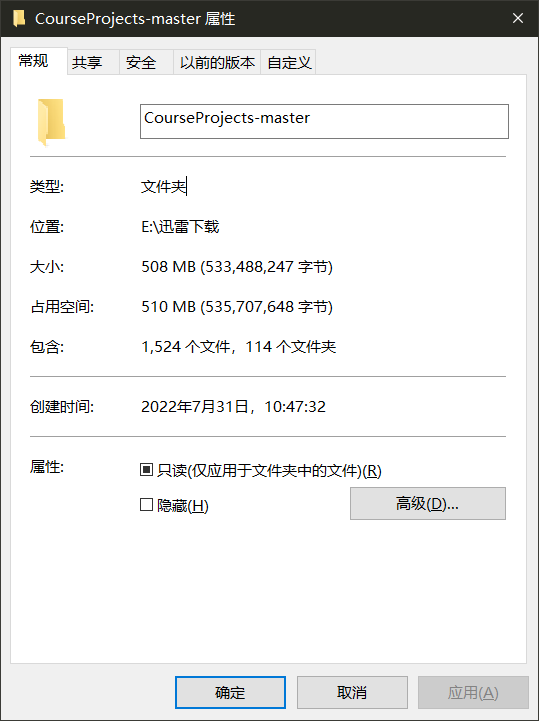
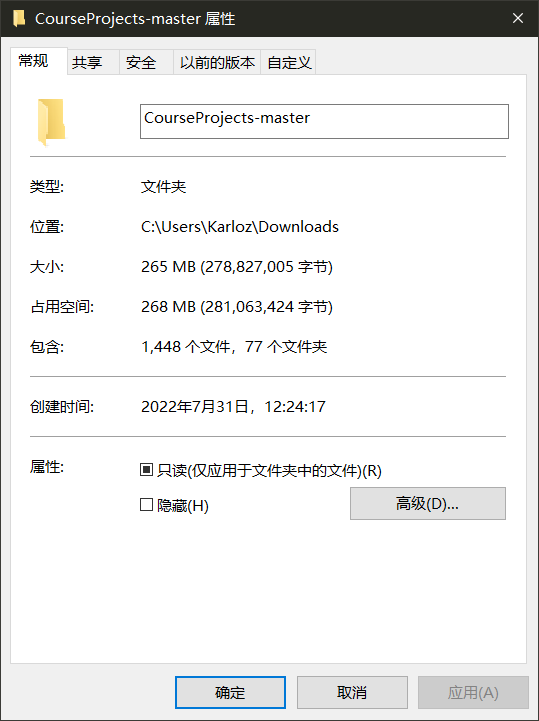
22-07-31 update

diff --git a/README.md b/README.md
@@ -16,11 +16,11 @@
 
 **1. 由于每天都可能会对已经上传的项目进行优化或修改完善，最后一次提交的时间通常比较集中，真实的完成时间可以参考项目目录中最早的提交日期或者本文档下面的更新日志部分。**
 
-**2.完整的仓库压缩包大小约为88.8MB，解压后为508MB。若下载的文件大小小于该值，则说明丢失了部分文件，可能会导致代码不能正确运行。使用网页直接下载压缩包很容易出现这个问题，建议使用git clone。**
+**2.完整的仓库压缩包大小约为88.8MB，解压后为265MB(具体见下图)。若下载的文件大小小于该值，则说明丢失了部分文件，可能会导致代码不能正确运行。使用网页直接下载压缩包很容易出现这个问题，不建议使用迅雷等下载软件，使用浏览器自带的下载方式比较好。或者可以使用git clone。**
 
 **3.已上传的所有项目代码均在GitHub下载后的仓库目录中进行了测试，都是可以正确运行的。如果出现问题，可能是本地的环境不正确导致。为了避免环境问题，上传了openssl和gmssl两个库的代码。其中的内容与我本地的环境完全相同。可以使用上传的库解决可能的问题。**
 
-<img src="./size.png" alt="image-20220731111345575" style="zoom: 67%;" />
+![image-20220731122443296](./size.png)
 
 ### 所做项目及其简单说明
 
